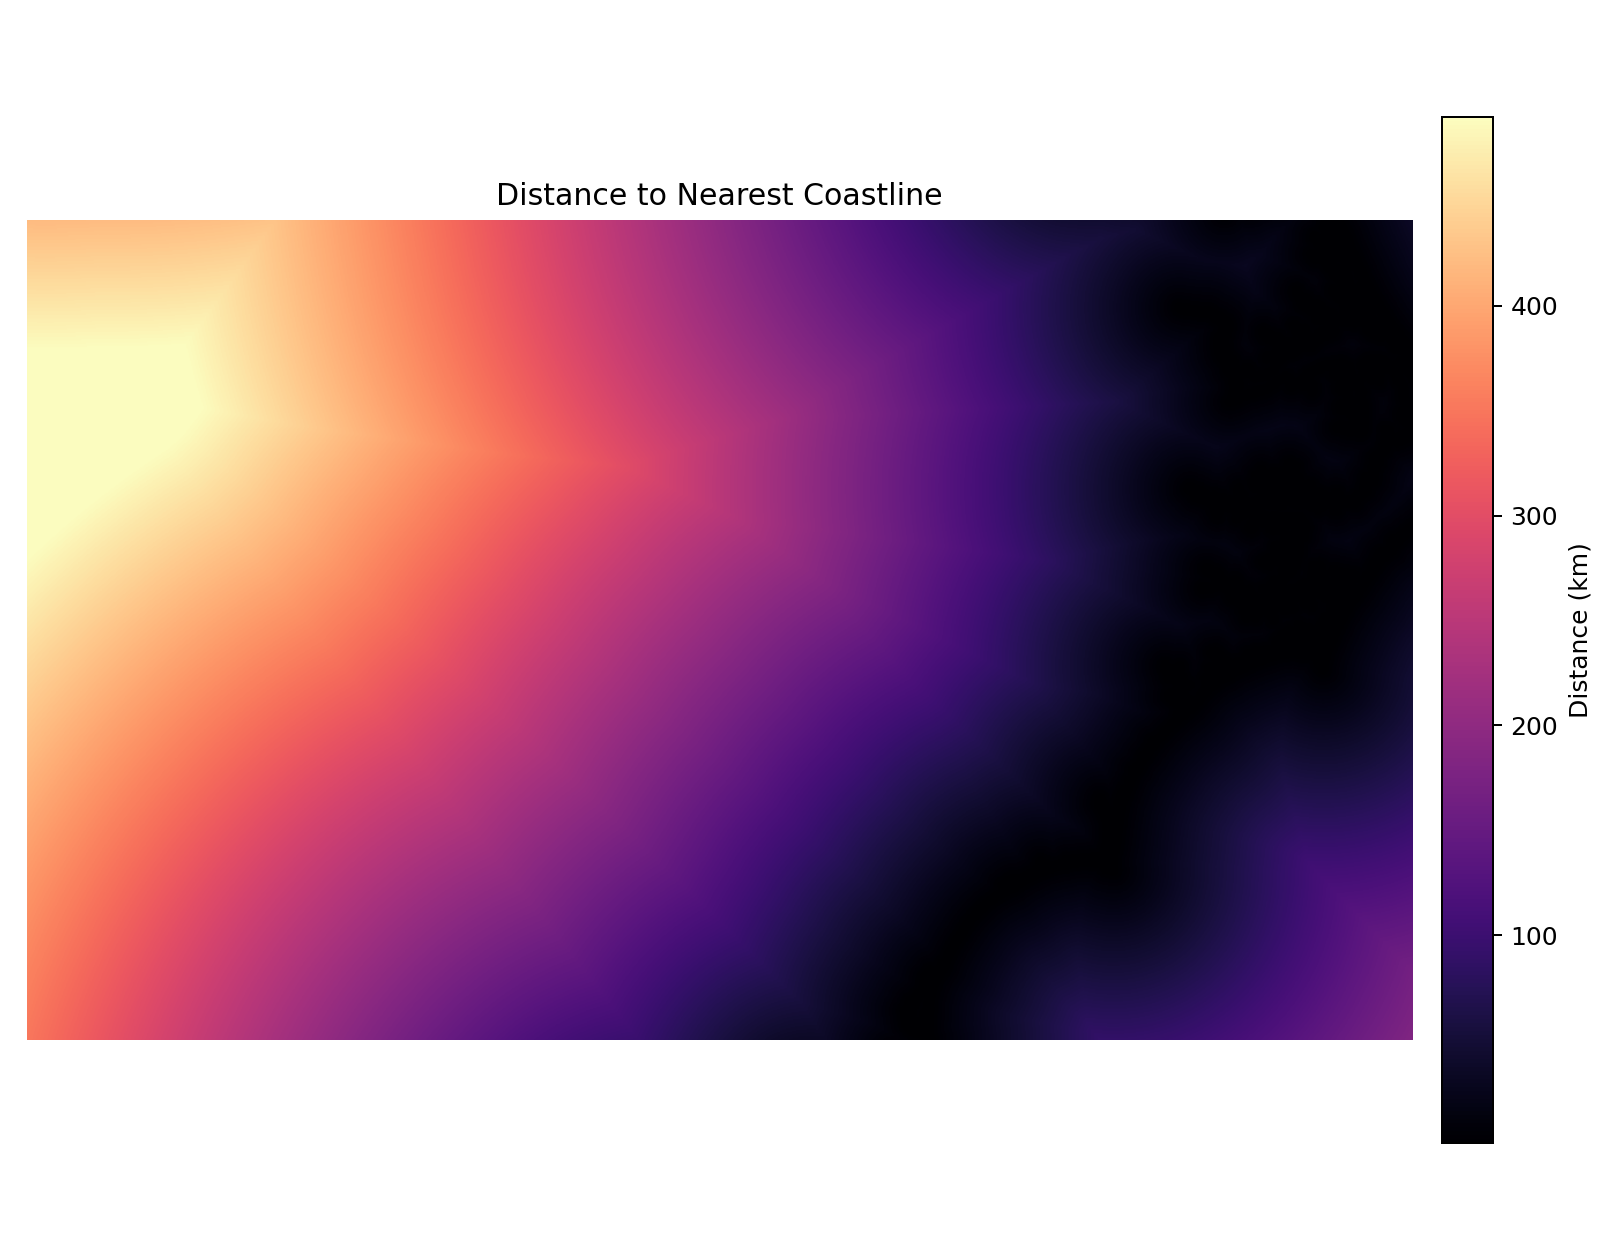
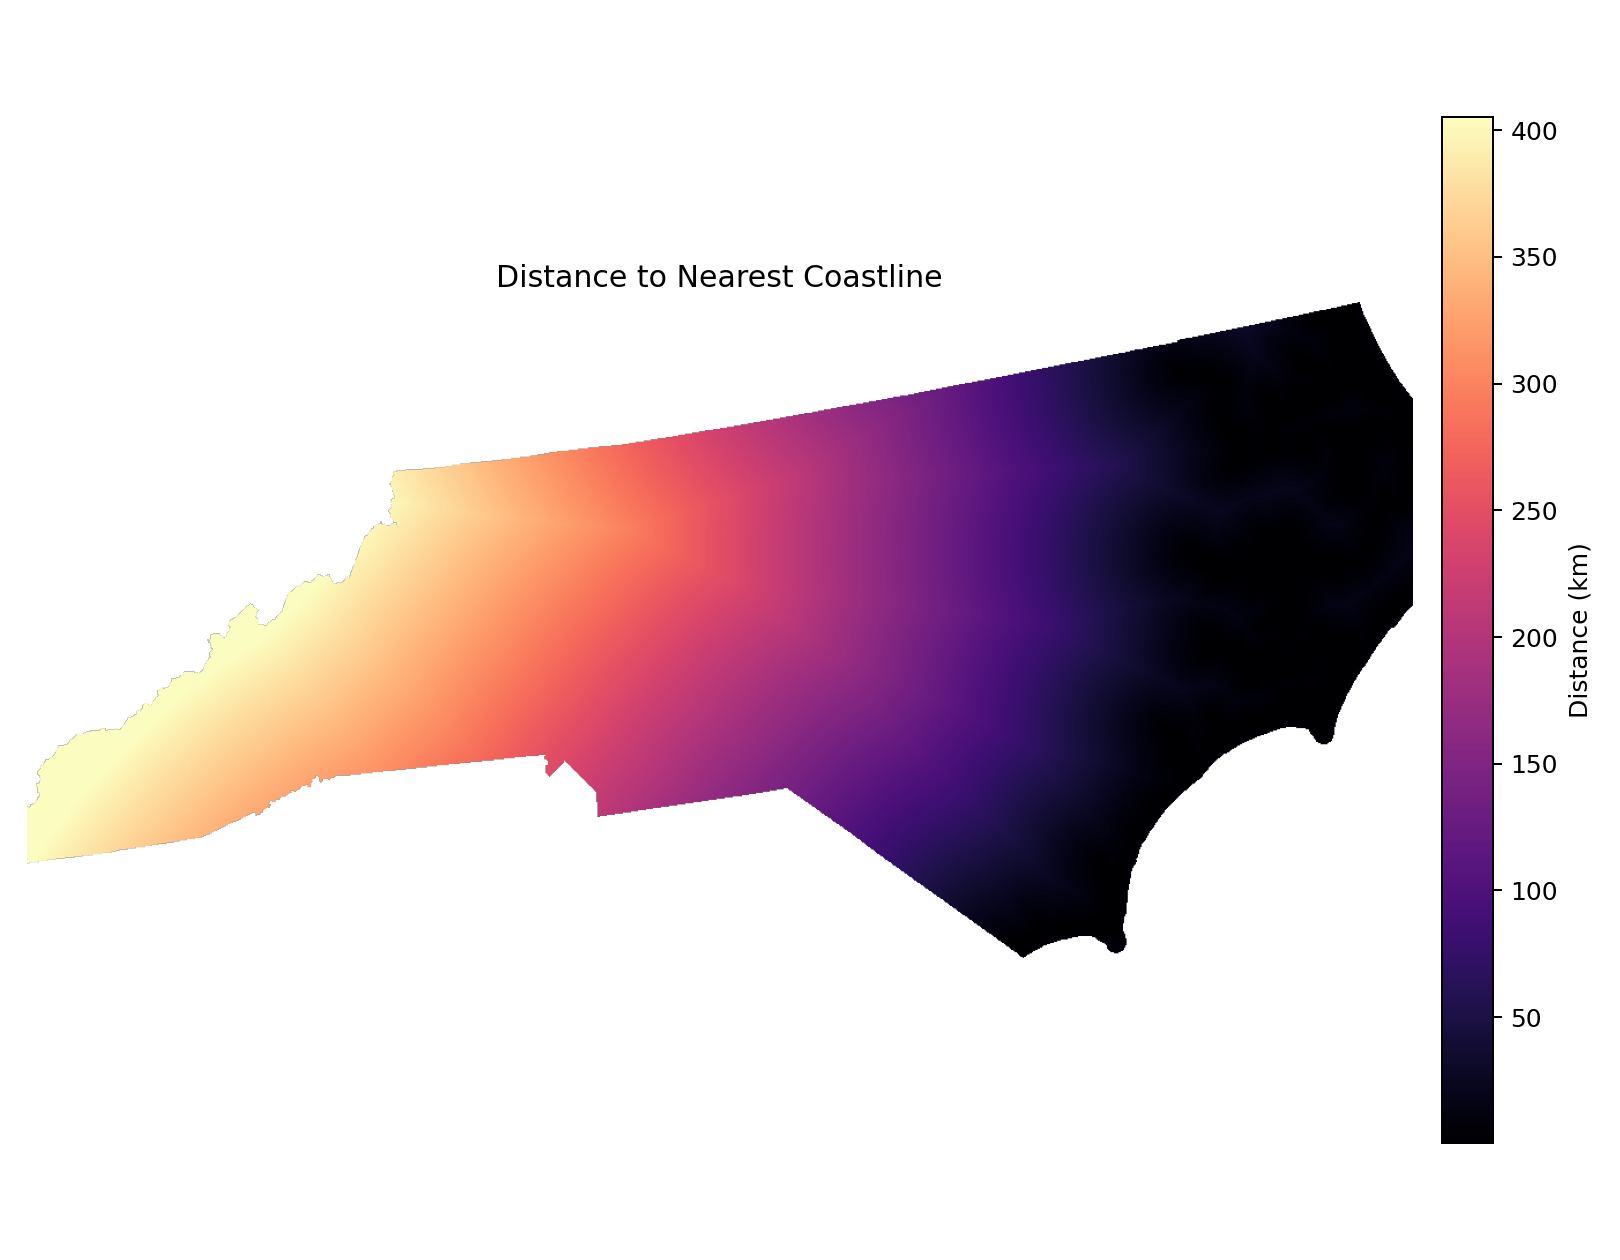
masking

diff --git a/exp/plot_raster_previews.py b/exp/plot_raster_previews.py
@@ -7,6 +7,7 @@ for canopy, elevation, distance to waterbody, and distance to coastline.
 Run from the project root:
 
     python exp/plot_raster_previews.py
+    python exp/plot_raster_previews.py --rasters hydro coastline
 """
 
 from __future__ import annotations
@@ -24,6 +25,7 @@ DEFAULT_CANOPY = "data/nc_tcc_2020_2023.tif"
 DEFAULT_ELEVATION = "data/nc_usgs30m.tif"
 DEFAULT_HYDRO = "data/nc_hydro_distance_100m.tif"
 DEFAULT_OUTPUT_DIR = "images/raster_previews"
+RASTER_CHOICES = ("canopy", "elevation", "hydro", "coastline")
 
 
 def parse_args() -> argparse.Namespace:
@@ -51,6 +53,13 @@ def parse_args() -> argparse.Namespace:
         type=int,
         default=1,
         help="Band to preview from the canopy stack. Defaults to 1.",
+    )
+    parser.add_argument(
+        "--rasters",
+        nargs="+",
+        choices=RASTER_CHOICES,
+        default=list(RASTER_CHOICES),
+        help="Raster previews to create. Defaults to all.",
     )
     return parser.parse_args()
 
@@ -126,49 +135,54 @@ def plot_raster(
 def main() -> None:
     args = parse_args()
     output_dir = Path(args.output_dir)
+    selected = set(args.rasters)
 
-    canopy, canopy_description = read_preview(Path(args.canopy), args.canopy_band, args.max_dim)
-    canopy = mask_canopy_codes(canopy)
-    canopy_title = "Tree Canopy Cover"
-    if canopy_description:
-        canopy_title = f"{canopy_title} ({canopy_description})"
-    plot_raster(
-        canopy,
-        canopy_title,
-        output_dir / "canopy_preview.png",
-        cmap="Greens",
-        label="Percent canopy cover",
-        percentile_clip=(0, 100),
-    )
+    if "canopy" in selected:
+        canopy, canopy_description = read_preview(Path(args.canopy), args.canopy_band, args.max_dim)
+        canopy = mask_canopy_codes(canopy)
+        canopy_title = "Tree Canopy Cover"
+        if canopy_description:
+            canopy_title = f"{canopy_title} ({canopy_description})"
+        plot_raster(
+            canopy,
+            canopy_title,
+            output_dir / "canopy_preview.png",
+            cmap="Greens",
+            label="Percent canopy cover",
+            percentile_clip=(0, 100),
+        )
 
-    elevation, _ = read_preview(Path(args.elevation), 1, args.max_dim)
-    plot_raster(
-        elevation,
-        "Elevation",
-        output_dir / "elevation_preview.png",
-        cmap="terrain",
-        label="Elevation",
-    )
+    if "elevation" in selected:
+        elevation, _ = read_preview(Path(args.elevation), 1, args.max_dim)
+        plot_raster(
+            elevation,
+            "Elevation",
+            output_dir / "elevation_preview.png",
+            cmap="terrain",
+            label="Elevation",
+        )
 
-    water_distance, _ = read_preview(Path(args.hydro), 1, args.max_dim)
-    plot_raster(
-        water_distance / 1000,
-        "Distance to Nearest Waterbody",
-        output_dir / "waterbody_distance_preview.png",
-        cmap="Blues_r",
-        label="Distance (km)",
-    )
+    if "hydro" in selected:
+        water_distance, _ = read_preview(Path(args.hydro), 1, args.max_dim)
+        plot_raster(
+            water_distance / 1000,
+            "Distance to Nearest Waterbody",
+            output_dir / "waterbody_distance_preview.png",
+            cmap="Blues_r",
+            label="Distance (km)",
+        )
 
-    coastline_distance, _ = read_preview(Path(args.hydro), 2, args.max_dim)
-    plot_raster(
-        coastline_distance / 1000,
-        "Distance to Nearest Coastline",
-        output_dir / "coastline_distance_preview.png",
-        cmap="magma",
-        label="Distance (km)",
-    )
+    if "coastline" in selected:
+        coastline_distance, _ = read_preview(Path(args.hydro), 2, args.max_dim)
+        plot_raster(
+            coastline_distance / 1000,
+            "Distance to Nearest Coastline",
+            output_dir / "coastline_distance_preview.png",
+            cmap="magma",
+            label="Distance (km)",
+        )
 
-    print(f"Saved raster previews to {output_dir}")
+    print(f"Saved selected raster previews to {output_dir}")
 
 
 if __name__ == "__main__":

diff --git a/README.md b/README.md
@@ -16,7 +16,7 @@ analysis, and generated outputs:
 
 Commands below assume they are run from the project root.
 
-## Common Commands
+## Data Preparation Commands
 
 ```
 Rscript scripts/data/load-spatstat-data.R
@@ -26,7 +26,6 @@ python scripts/data/usgs-nc-state-boundary.py
 python scripts/data/opentopography-dem-bbox.py --south 33.85116926668266 --north 36.5881334409244 --west -84.32178200052 --east -75.45981513195132 --output data/nc_usgs30m.tif --boundary data/boundaries/nc_state_boundary.gpkg
 python scripts/data/usfs-tcc-canopy-bbox.py --south 33.85116926668266 --north 36.5881334409244 --west -84.32178200052 --east -75.45981513195132 --start-year 2020 --end-year 2023 --output data/nc_tcc_2020_2023.tif --boundary data/boundaries/nc_state_boundary.gpkg
 python scripts/data/usgs-hydrography.py --south 33.85116926668266 --north 36.5881334409244 --west -84.32178200052 --east -75.45981513195132 --resolution 100 --output data/nc_hydro_distance_100m.tif --boundary data/boundaries/nc_state_boundary.gpkg
-python exp/nippp.py
 ```
 
 ## Background